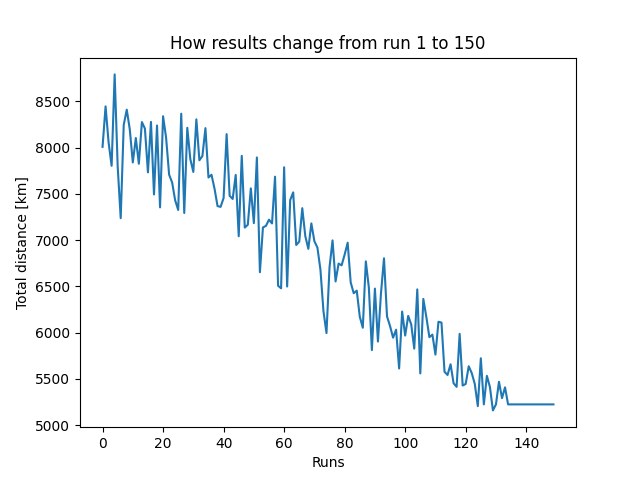
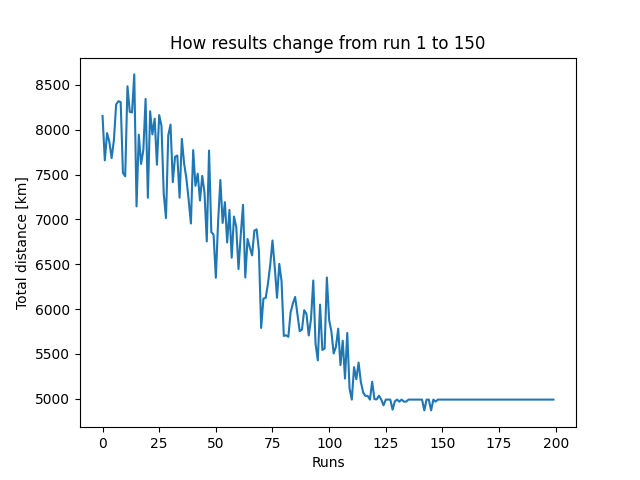
Results are now saved in results.txt file. Exe time added. Unnecessary files removed.

diff --git a/ant_algorithm.py b/ant_algorithm.py
@@ -2,10 +2,7 @@ import random
 import pandas as pd
 import numpy as np
 import matplotlib.pyplot as plt
-import pulp
-import itertools
-import gmaps
-import googlemaps
+import time
 import haversine as hs
 
 
@@ -69,7 +66,7 @@ def normalize_weights(w_matrix):
     return w_matrix
 
 
-def update_weights(w_matrix, ants_routes, alpha=1.3, beta=0.9):
+def update_weights(w_matrix, ants_routes, alpha, beta):
     w_matrix = w_matrix * beta
 
     for route in ants_routes:
@@ -113,7 +110,7 @@ def select_destination(distances, weights, delivered, capacity, demands, depot_i
     return index, distance
 
 
-def deliver(latitudes, longitudes, demands, n_ants, capacities, start_index, n_groups=1, n_runs=1):
+def deliver(latitudes, longitudes, demands, n_ants, capacities, start_index, alpha, beta, n_groups=1, n_runs=1):
     d_matrix = create_distance_matrix(latitudes, longitudes)
     w_matrix = create_weights_matrix(len(latitudes), len(longitudes))
     original_capacities = capacities
@@ -159,7 +156,7 @@ def deliver(latitudes, longitudes, demands, n_ants, capacities, start_index, n_g
                     best_group[1].append(ants_routes[ant]['Locations'])
 
         # update weights
-        w_matrix = update_weights(w_matrix, best_group[1])
+        w_matrix = update_weights(w_matrix, best_group[1], alpha, beta)
 
         #print(f'Group best: {best_group[0]}')
         #print(best_group)
@@ -180,14 +177,18 @@ def pprint(dictionary):
 
 
 # execution with parameters
+start_time = time.time()
 run_best, groups_bests = deliver(latitudes=latitudes1,
                                  longitudes=longitudes1,
                                  demands=demands1,
                                  n_ants=5,
                                  capacities=[1000, 1000, 1000, 1000, 1000],
                                  start_index=0,
+                                 alpha=1.3,
+                                 beta=0.9,
                                  n_groups=10,
-                                 n_runs=150)
+                                 n_runs=200)
+end_time = time.time()
 
 
 plt.plot([i for i in range(len(groups_bests))], groups_bests)
@@ -195,7 +196,17 @@ plt.xlabel('Runs')
 plt.ylabel('Total distance [km]')
 plt.title('How results change from run 1 to 150')
 plt.savefig('results_for_runs.png')
-plt.show()
 
-print()
-print(run_best)
+message = 'Total distance: ' + str(round(run_best[0], 2)) + ' km\n\nVehicle routes:\n'
+for route in run_best[1]:
+    for city in route:
+        message += str(city) + ', '
+    message += '\n'
+message += f'\nAlgorithm executed in {round(end_time-start_time, 2)} seconds.'
+
+results_file = open('results.txt', 'w')
+results_file.write(message)
+results_file.close()
+
+print(f'Algorithm executed in {round(end_time-start_time, 2)} seconds.\n'
+      f'Please see results.txt and results_for_runs.png files.')
